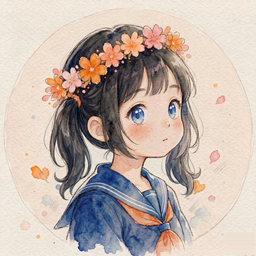
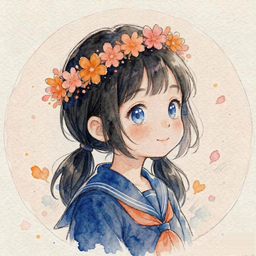
头像统一为单套并修复缩放锯齿，晨曦/初春/白井黑子换图

diff --git a/src/UiharuMind/Shared/Utils/IconUtils.cs b/src/UiharuMind/Shared/Utils/IconUtils.cs
@@ -17,9 +17,6 @@ public class IconUtils
     // 谁把它们释放了,整个进程的头像与托盘图标一起变空白
     private static Bitmap? _defaultIcon;
 
-    // 默认头像进程级缓存,不 Dispose
-    private static readonly Dictionary<string, Bitmap> DefaultAvatars = new();
-
     private static readonly Dictionary<string, CharacterIconEntry> CharacterIcons = new(); //角色自带头像,按角色缓存
 
     //缓存项连来源一起存:角色改了头像,来源串跟着变,据此失效
@@ -28,11 +25,11 @@ public class IconUtils
     /// <summary>应用图标。进程级缓存，调用方不得释放</summary>
     public static Bitmap? DefaultAppIcon => _defaultIcon ??= LoadDefaultBitmap("Icon.png");
 
-    /// <summary>默认角色头像。进程级缓存，调用方不得释放</summary>
-    public static Bitmap? DefaultCharIcon => DefaultAvatar("DefaultChar.png");
+    /// <summary>默认角色头像 = 应用图标（花的五瓣图，任何主题下都不违和）。进程级缓存，调用方不得释放</summary>
+    public static Bitmap? DefaultCharIcon => DefaultAppIcon;
 
-    /// <summary>默认工具人(智能体)头像。进程级缓存，调用方不得释放</summary>
-    public static Bitmap? DefaultToolCharIcon => DefaultAvatar("DefaultTool.png");
+    /// <summary>默认工具人(智能体)头像 = 应用图标，与默认角色头像统一（旧的花环少女图与初春撞脸，不再使用）。进程级缓存，调用方不得释放</summary>
+    public static Bitmap? DefaultToolCharIcon => DefaultAppIcon;
 
     /// <summary>默认用户头像。进程级缓存，调用方不得释放</summary>
     public static Bitmap? DefaultUserIcon => DefaultAppIcon;
@@ -109,18 +106,6 @@ public class IconUtils
         {
             Log.Error($"Decode character icon failed: {e.Message}");
             return null;
-        }
-    }
-
-    /// <summary>默认头像，进程级缓存不 Dispose</summary>
-    private static Bitmap? DefaultAvatar(string fileName)
-    {
-        lock (DefaultAvatars)
-        {
-            if (DefaultAvatars.TryGetValue(fileName, out var cached)) return cached;
-            var bitmap = LoadDefaultBitmap($"Avatars/{fileName}");
-            if (bitmap != null) DefaultAvatars[fileName] = bitmap;
-            return bitmap;
         }
     }
 
